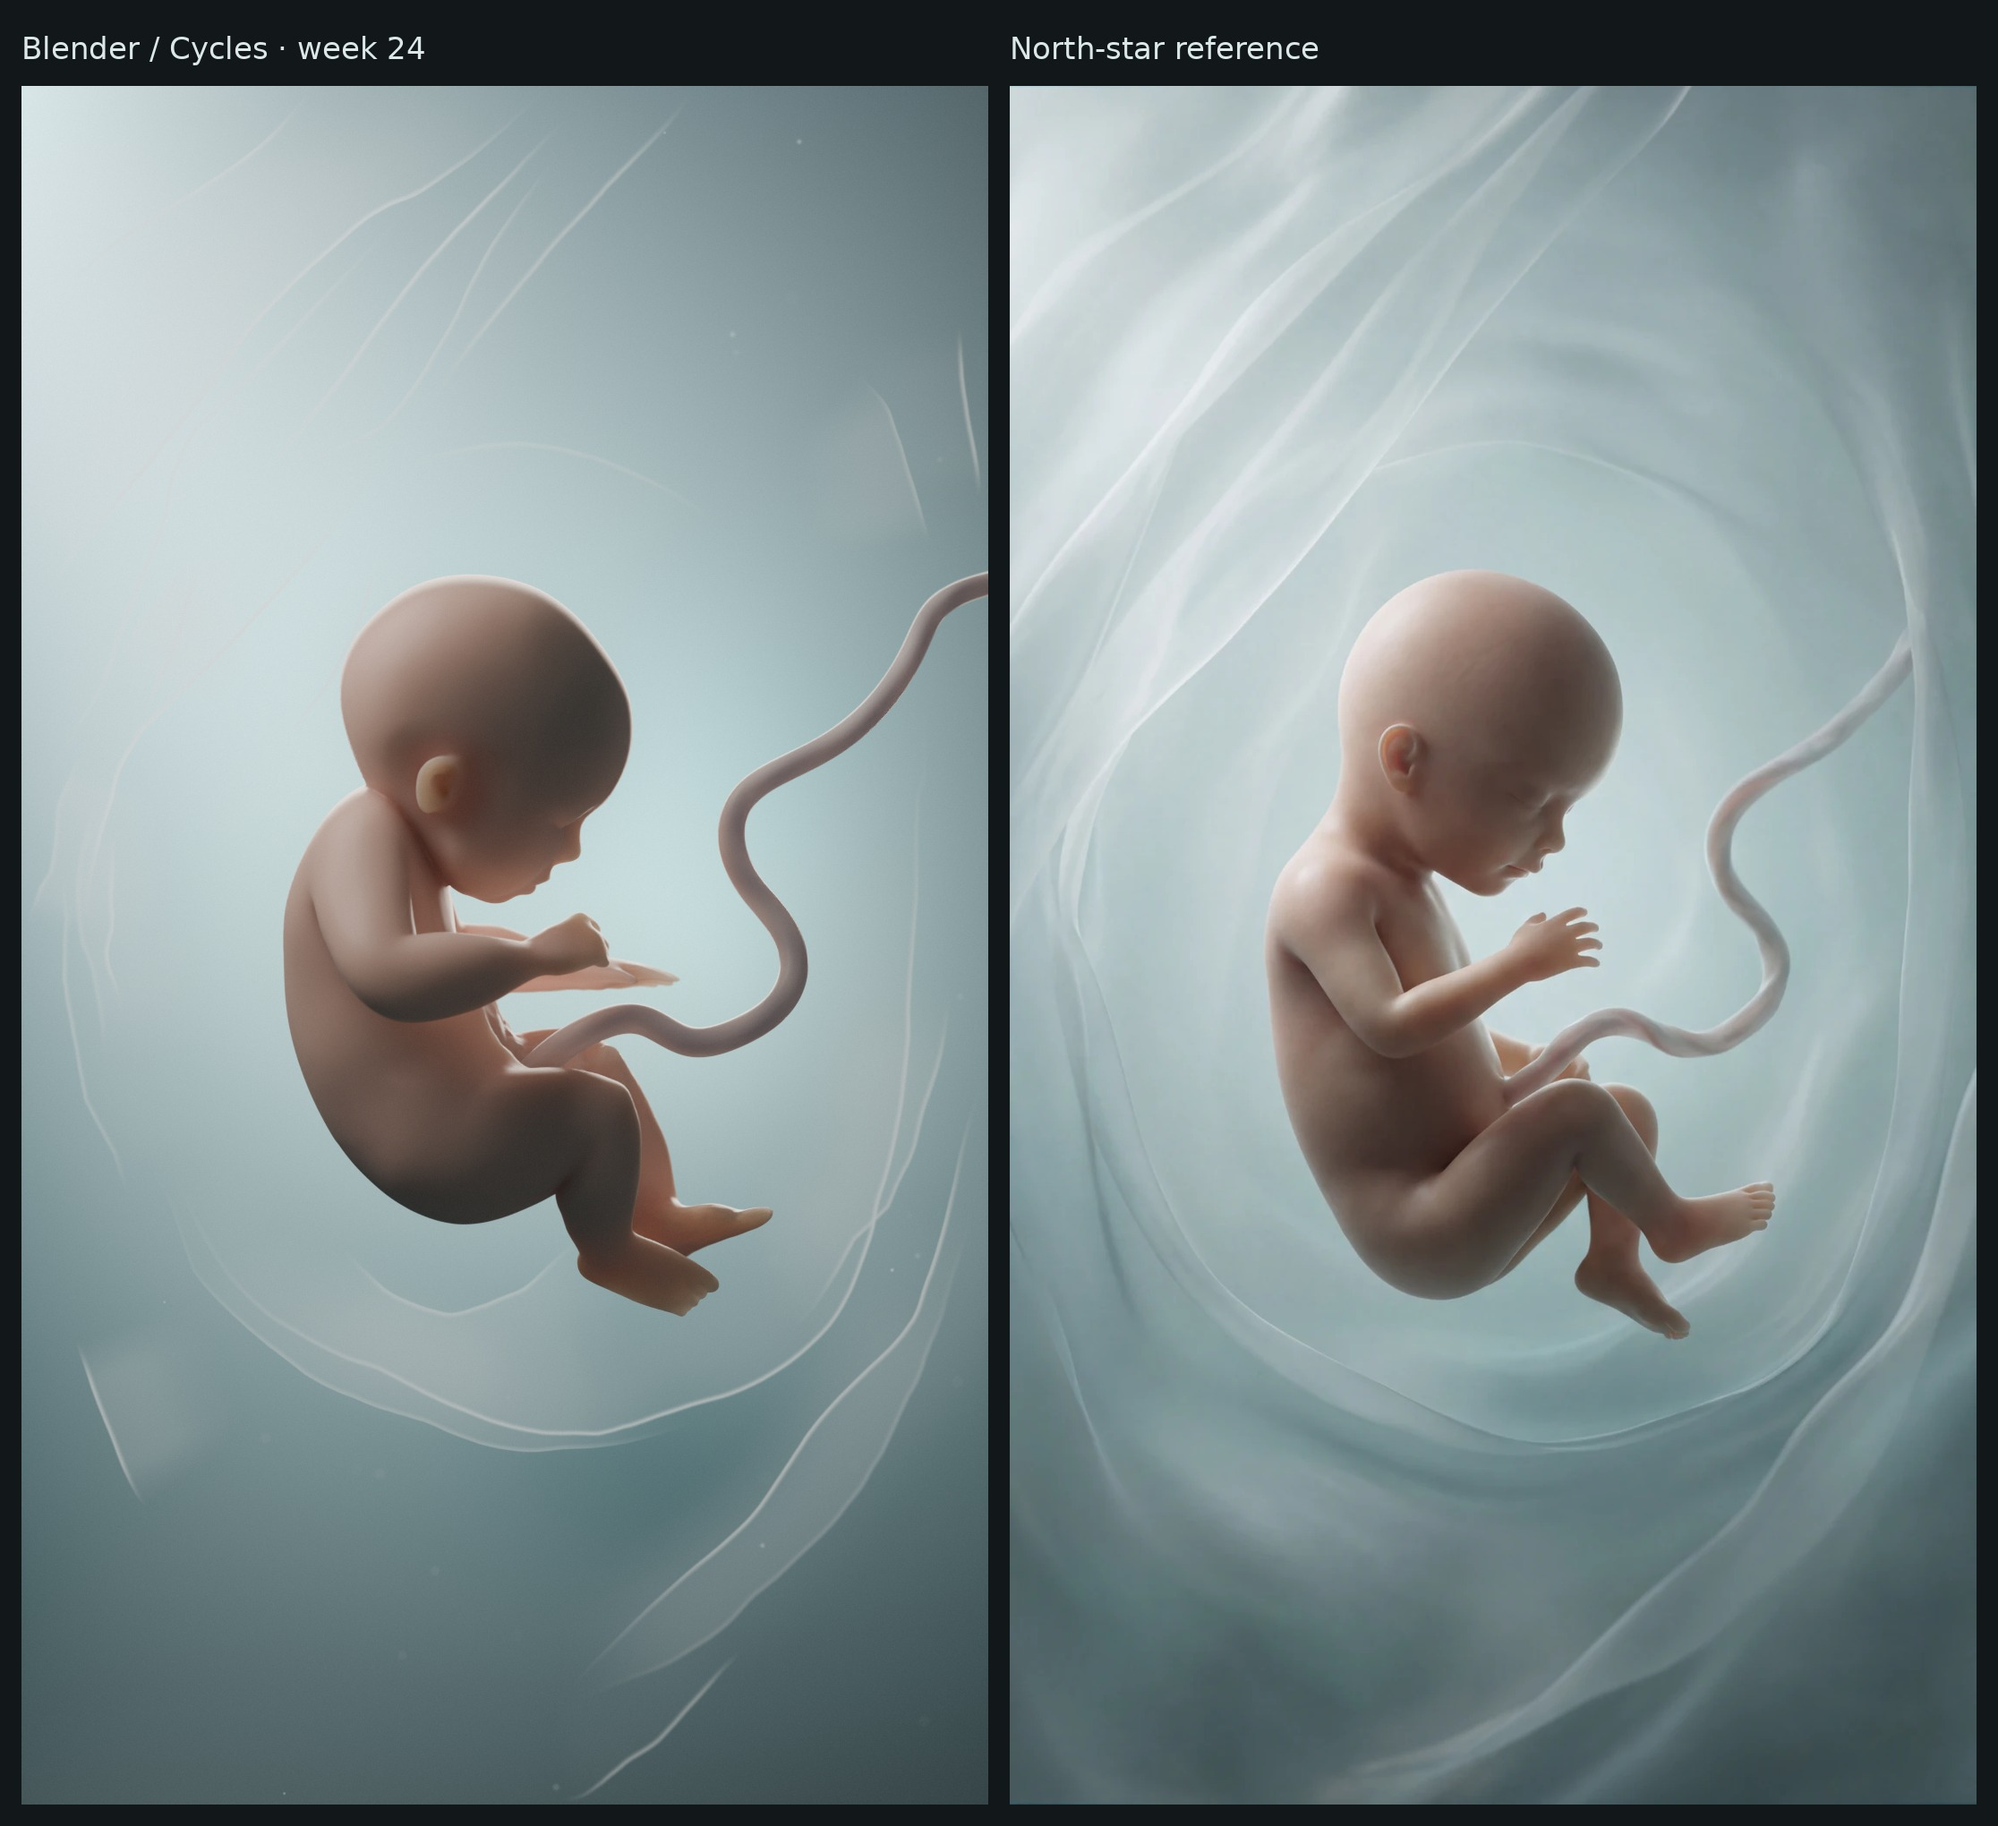
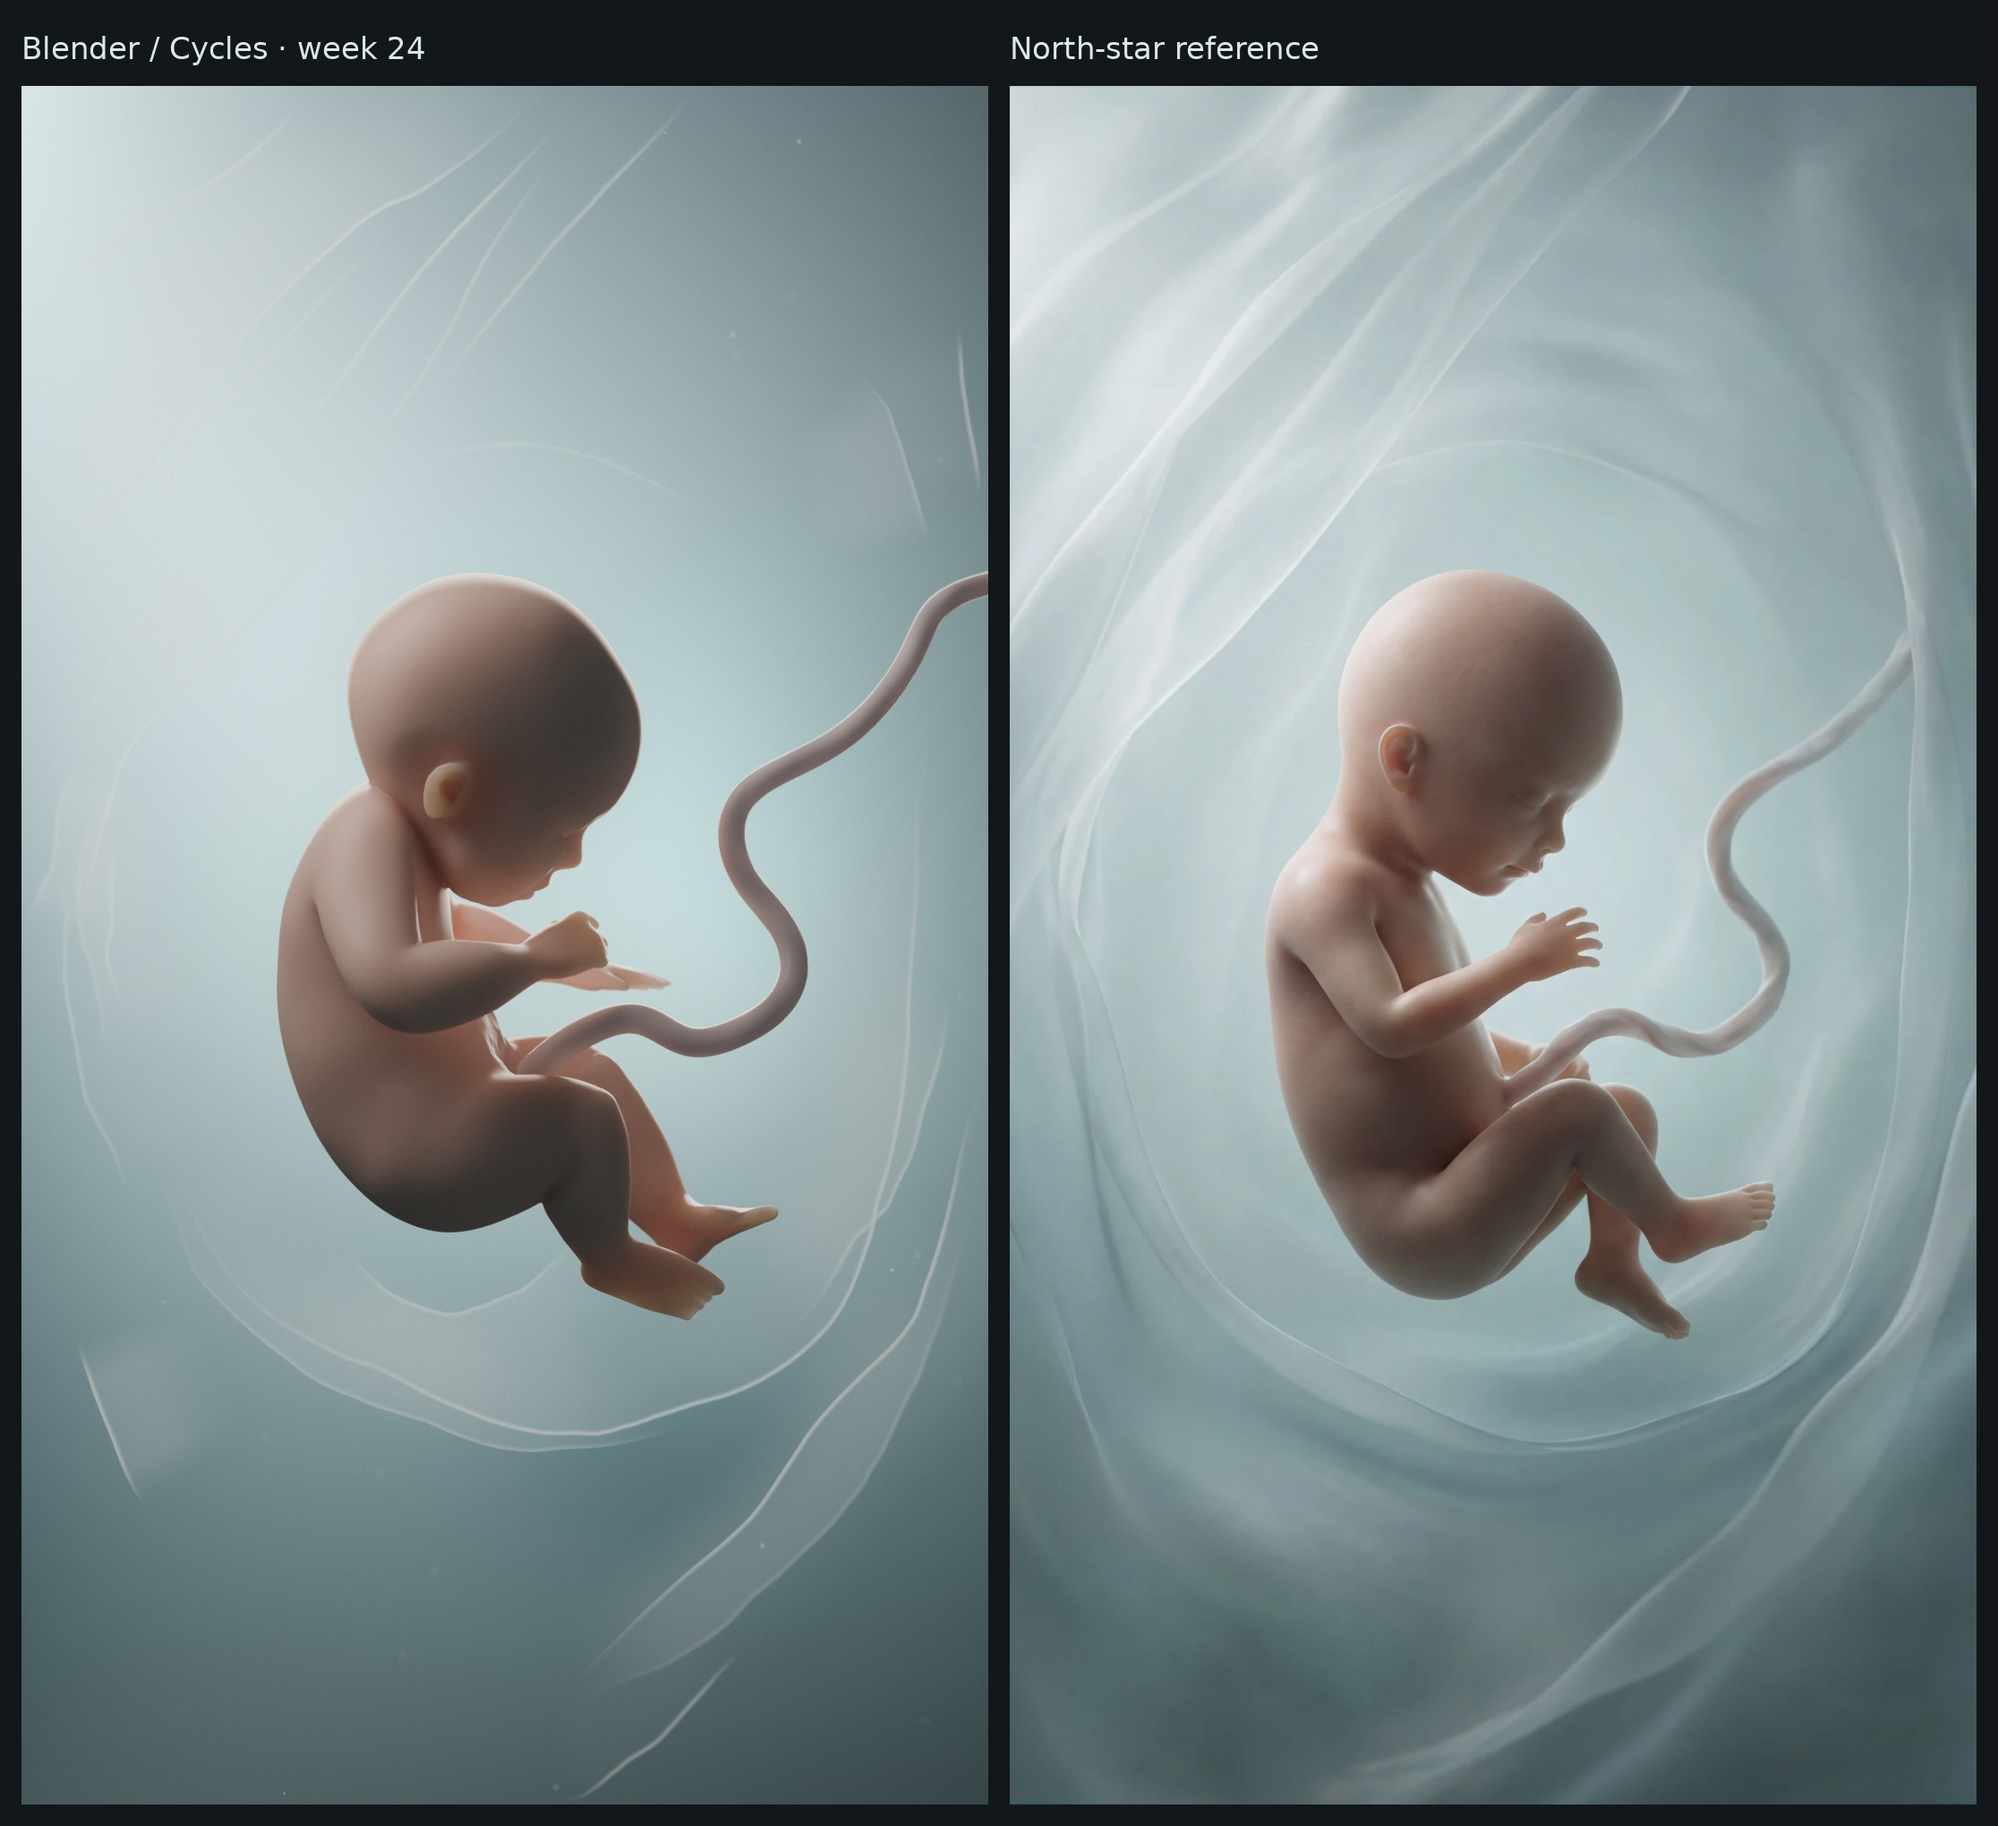
Sculpt weights: mutual-nearest anchors (contacts are not matches); W24 render
Claude-Session: https://claude.ai/code/session_012GPESLoAzkgxi7MKnnsx3V

diff --git a/fetal-growth-explorer/blender/scripts/fge/sculpt.py b/fetal-growth-explorer/blender/scripts/fge/sculpt.py
@@ -361,7 +361,11 @@ def transfer(sculpt, rig: mhfit.Rig, body) -> np.ndarray:
     dom = np.argmax(rig.W[j], axis=2)  # (v, k)
     mode = np.array([np.bincount(r).argmax() for r in dom])
     conf = ((dom == mode[:, None]) & (agree > 0.25)).mean(1)
-    anchor = (conf >= 0.75) & (d[:, 0] < 0.012)
+    # mutual nearest neighbours: a hand resting on the face is near the head
+    # surface, but the head surface's own nearest sculpt point is the face
+    back = cKDTree(Vs).query(Vb[j[:, 0]])[1]
+    mutual = np.linalg.norm(Vs[back] - Vs, axis=1) < 0.006
+    anchor = (conf >= 0.75) & (d[:, 0] < 0.010) & mutual
     if lab is not None:
         anchor &= ~seam
     edges = np.array([e.vertices[:] for e in sculpt.data.edges])
